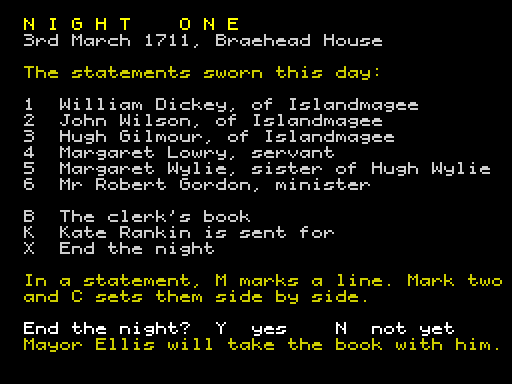
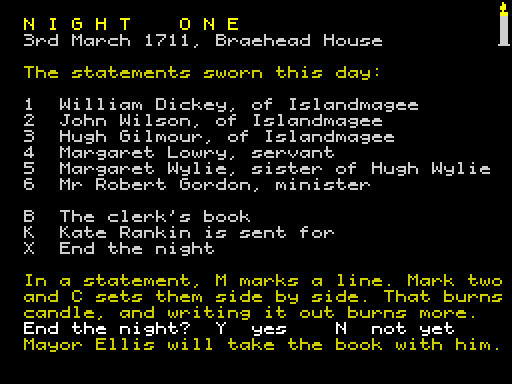
v0.5: the candle (a compare burns 1, writing a finding 2 more); candle test; notes

diff --git a/scripts/night.py b/scripts/night.py
@@ -14,6 +14,7 @@ Layout of src/night.inc (all labels used by src/main.asm):
 
   HUBROW EQU r          row of the first statement on the hub
   NIGHT_NF EQU n        number of findings
+  NIGHT_CANDLE EQU n    the night's candle: a compare burns 1, writing 2 more
   night_hub             textlist: the hub screen
   night_book            textlist: the book's heading
   night_people          textlist: the book's page of names
@@ -214,7 +215,9 @@ def compile_night(n):
     assert len(pairs) < 256 and 1 <= len(keys) <= 16   # night_fflag holds 16
 
     out = ["; generated by scripts/night.py from data/night%d.py" % n,
-           "HUBROW  EQU %d" % HUBROW, "NIGHT_NF EQU %d" % len(keys)]
+           "HUBROW  EQU %d" % HUBROW, "NIGHT_NF EQU %d" % len(keys),
+           "NIGHT_CANDLE EQU %d" % night["candle"]]
+    assert 1 <= night["candle"] <= 16, "a candle is 1-16 units (16 pixels of wax)"
 
     # the hub
     out.append("night_hub:")
@@ -231,8 +234,9 @@ def compile_night(n):
                        + " is sent for")
     out += textrec(r + 2, 1, WHT, "X  End the night")
     out += textrec(r + 4, 1, YEL, "In a statement, M marks a line. Mark two")
-    out += textrec(r + 5, 1, YEL, "and C sets them side by side.")
-    assert r + 5 < 20
+    out += textrec(r + 5, 1, YEL, "and C sets them side by side. That burns")
+    out += textrec(r + 6, 1, YEL, "candle, and writing it out burns more.")
+    assert r + 6 < 20
     out.append("        db 0FFh")
 
     # the book's heading and its page of names

diff --git a/scripts/nightcheck.py b/scripts/nightcheck.py
@@ -108,6 +108,9 @@ def main(n):
         text_bytes += sum(len(o[1]) + len(o[2]) + 2 for _, os_ in p["choices"].values() for o in os_)
 
     text_bytes += sum(len(v) + 1 for v in night["people"].values())
+    print("\nCandle: %d (a compare burns 1, writing a finding out 2 more; all %d"
+          " findings written: %d, leaving %d for compares that find nothing)"
+          % (night["candle"], len(keys), 3 * len(keys), night["candle"] - 3 * len(keys)))
     print("\nText this night: %d bytes uncompressed (a 16K bank holds about %d nights like it)"
           % (text_bytes, 16384 // max(1, text_bytes)))
 

diff --git a/data/night1.py b/data/night1.py
@@ -21,6 +21,9 @@ NIGHT = {
     "n": 1,
     "date": "3rd March 1711",
     "place": "Braehead House, Islandmagee",
+    # one candle for the night (v0.5): each compare burns 1, writing a
+    # finding out burns 2 more; at most 16 (it is drawn a pixel a unit)
+    "candle": 16,
 
     # -------------------------------------------------------------
     # Statements. A line is plain text, or (text, claim, value).

diff --git a/scripts/story.py b/scripts/story.py
@@ -110,6 +110,7 @@ PROLOGUE = [
     ("text", 15, 2, YEL, "Mayor Ellis sits in the parlour. One by"),
     ("text", 16, 2, YEL, "one they come in and swear, and you"),
     ("text", 17, 2, YEL, "write down what they say."),
+    ("text", 19, 2, BWHT, "You have one candle for the night."),
     ("wait",),
     ("night",),
     ("cls", WHT),

diff --git a/NOTES.md b/NOTES.md
@@ -13,7 +13,8 @@ it is used.
 ## What v0.5 has
 
 v0.5: the scripts (title, prologue, credits) are packed with ZX0 in
-chunks, like the night's text (see The script engine). Otherwise as v0.4:
+chunks, like the night's text (see The script engine), and the candle
+(below). Otherwise as v0.4:
 
 
 Title, the prologue (Sept 1710 to 3 March 1711: the haunting, the boy at
@@ -57,6 +58,18 @@ get a "needs a 128K" message.
   ("spoken", v0.4). The book shows the fit under "In Mayor Ellis's words:"
   in bright white (v0.4), then the lines written, after the findings, and
   runs on to another page when it is full.
+- **The candle** (v0.5): one a night (`candle` in the night data, 1-16;
+  Night One 16). C burns 1; Y on a finding burns 2 more (never below 0);
+  the parade and reading cost nothing. Drawn in the top right corner
+  (column 31, pixel rows 0-23) on the hub, the reader and the compare
+  screen: a dish, a pixel of wax a unit, a 5-pixel flame (its cell bright
+  yellow). When a compare uses the last of it the compare screen says "The
+  candle has burnt down to nothing."; after that C says the candle is out
+  (reading by the fire goes on). The night card says "You have one candle
+  for the night."; the hub's help says C burns candle and writing burns
+  more. "page 1 of 2" moved to column 22 to leave the corner free.
+  Night One: all four findings written cost 12, leaving 4 compares that
+  find nothing (nightcheck.py prints this).
 - **The index of names** (v0.4): each accused has an ordinary detail
   (invented, not from the records: flax and eggs, mending nets, a daughter
   who walked to the minister's), the name in white, the detail indented in
@@ -163,6 +176,7 @@ moonlight.
   finding with no text, or text for a finding that can't happen. Findings
   say what was sworn; they never say who lied, or that anyone was a witch.
 - **people**: the clerk's index of names for the night.
+- **candle** (v0.5): the night's candle in units, 1-16 (see above).
 
 scripts/night.py works out everything the Z80 would find awkward: it wraps
 each clause to 40 characters (column 1 on), cuts statements into pages of
@@ -180,8 +194,8 @@ accused says, typed after the fit every time.
 
 ## Memory plan
 
-The code stays below C000h. v0.5: code 6000h-93A0h (12.9 KB), then 4.6 KB
-free, then the night buffer A600h-BFFFh (the script buffer B400h-BFFFh
+The code stays below C000h. v0.5: code 6000h-9522h (13.3 KB; the candle
+is about 380 bytes with its state), then 4.2 KB free, then the night buffer A600h-BFFFh (the script buffer B400h-BFFFh
 lies inside it): Night One's text and tables, 6.4
 KB unpacked, kept in the code as 2.9 KB of ZX0 (was 6.4 KB unpacked in the
 code at v0.3). The buffer moves to a bank with the boot stub. Nights' text and pictures go
@@ -214,7 +228,8 @@ Willson -> John Wilson, Donaldson -> Hugh Gilmour.
    Why: comparing was free (Night One: 30 lines, 435 pairs, 9 that mean
    anything) and Y was always the best answer. The verdict never changes
    (they are convicted, as in 1711); what changes is what Lyle can say and
-   what the record shows was there to be seen. Stage 1, the candle, now;
+   what the record shows was there to be seen. Stage 1, the candle, done
+   in v0.5;
    stage 2, the trial and Lyle's argument, once there are banks (keep each
    night's finding flags, about 16 bytes a night, after its buffer goes).
 3. Portraits (Isobel first), hand-checked for the "human, not monstrous"
@@ -223,7 +238,10 @@ Willson -> John Wilson, Donaldson -> Hugh Gilmour.
 
 ## Testing
 
-v0.5: the prologue test needs one more SPACE (the press that begins no
+v0.5: candle.keys compares two lines of Dickey's statement 16 times
+(nothing found), shows the 16th burning the last of it, then C refused
+("The candle is out"), then the hub with the dish alone. The prologue
+test needs one more SPACE (the press that begins no
 longer skips page 1's typing; every page is the same screen as before,
 one press later). New test credits.keys (C on the title, the credits,
 back to the title); parade.keys goes on from the end card to the credits
